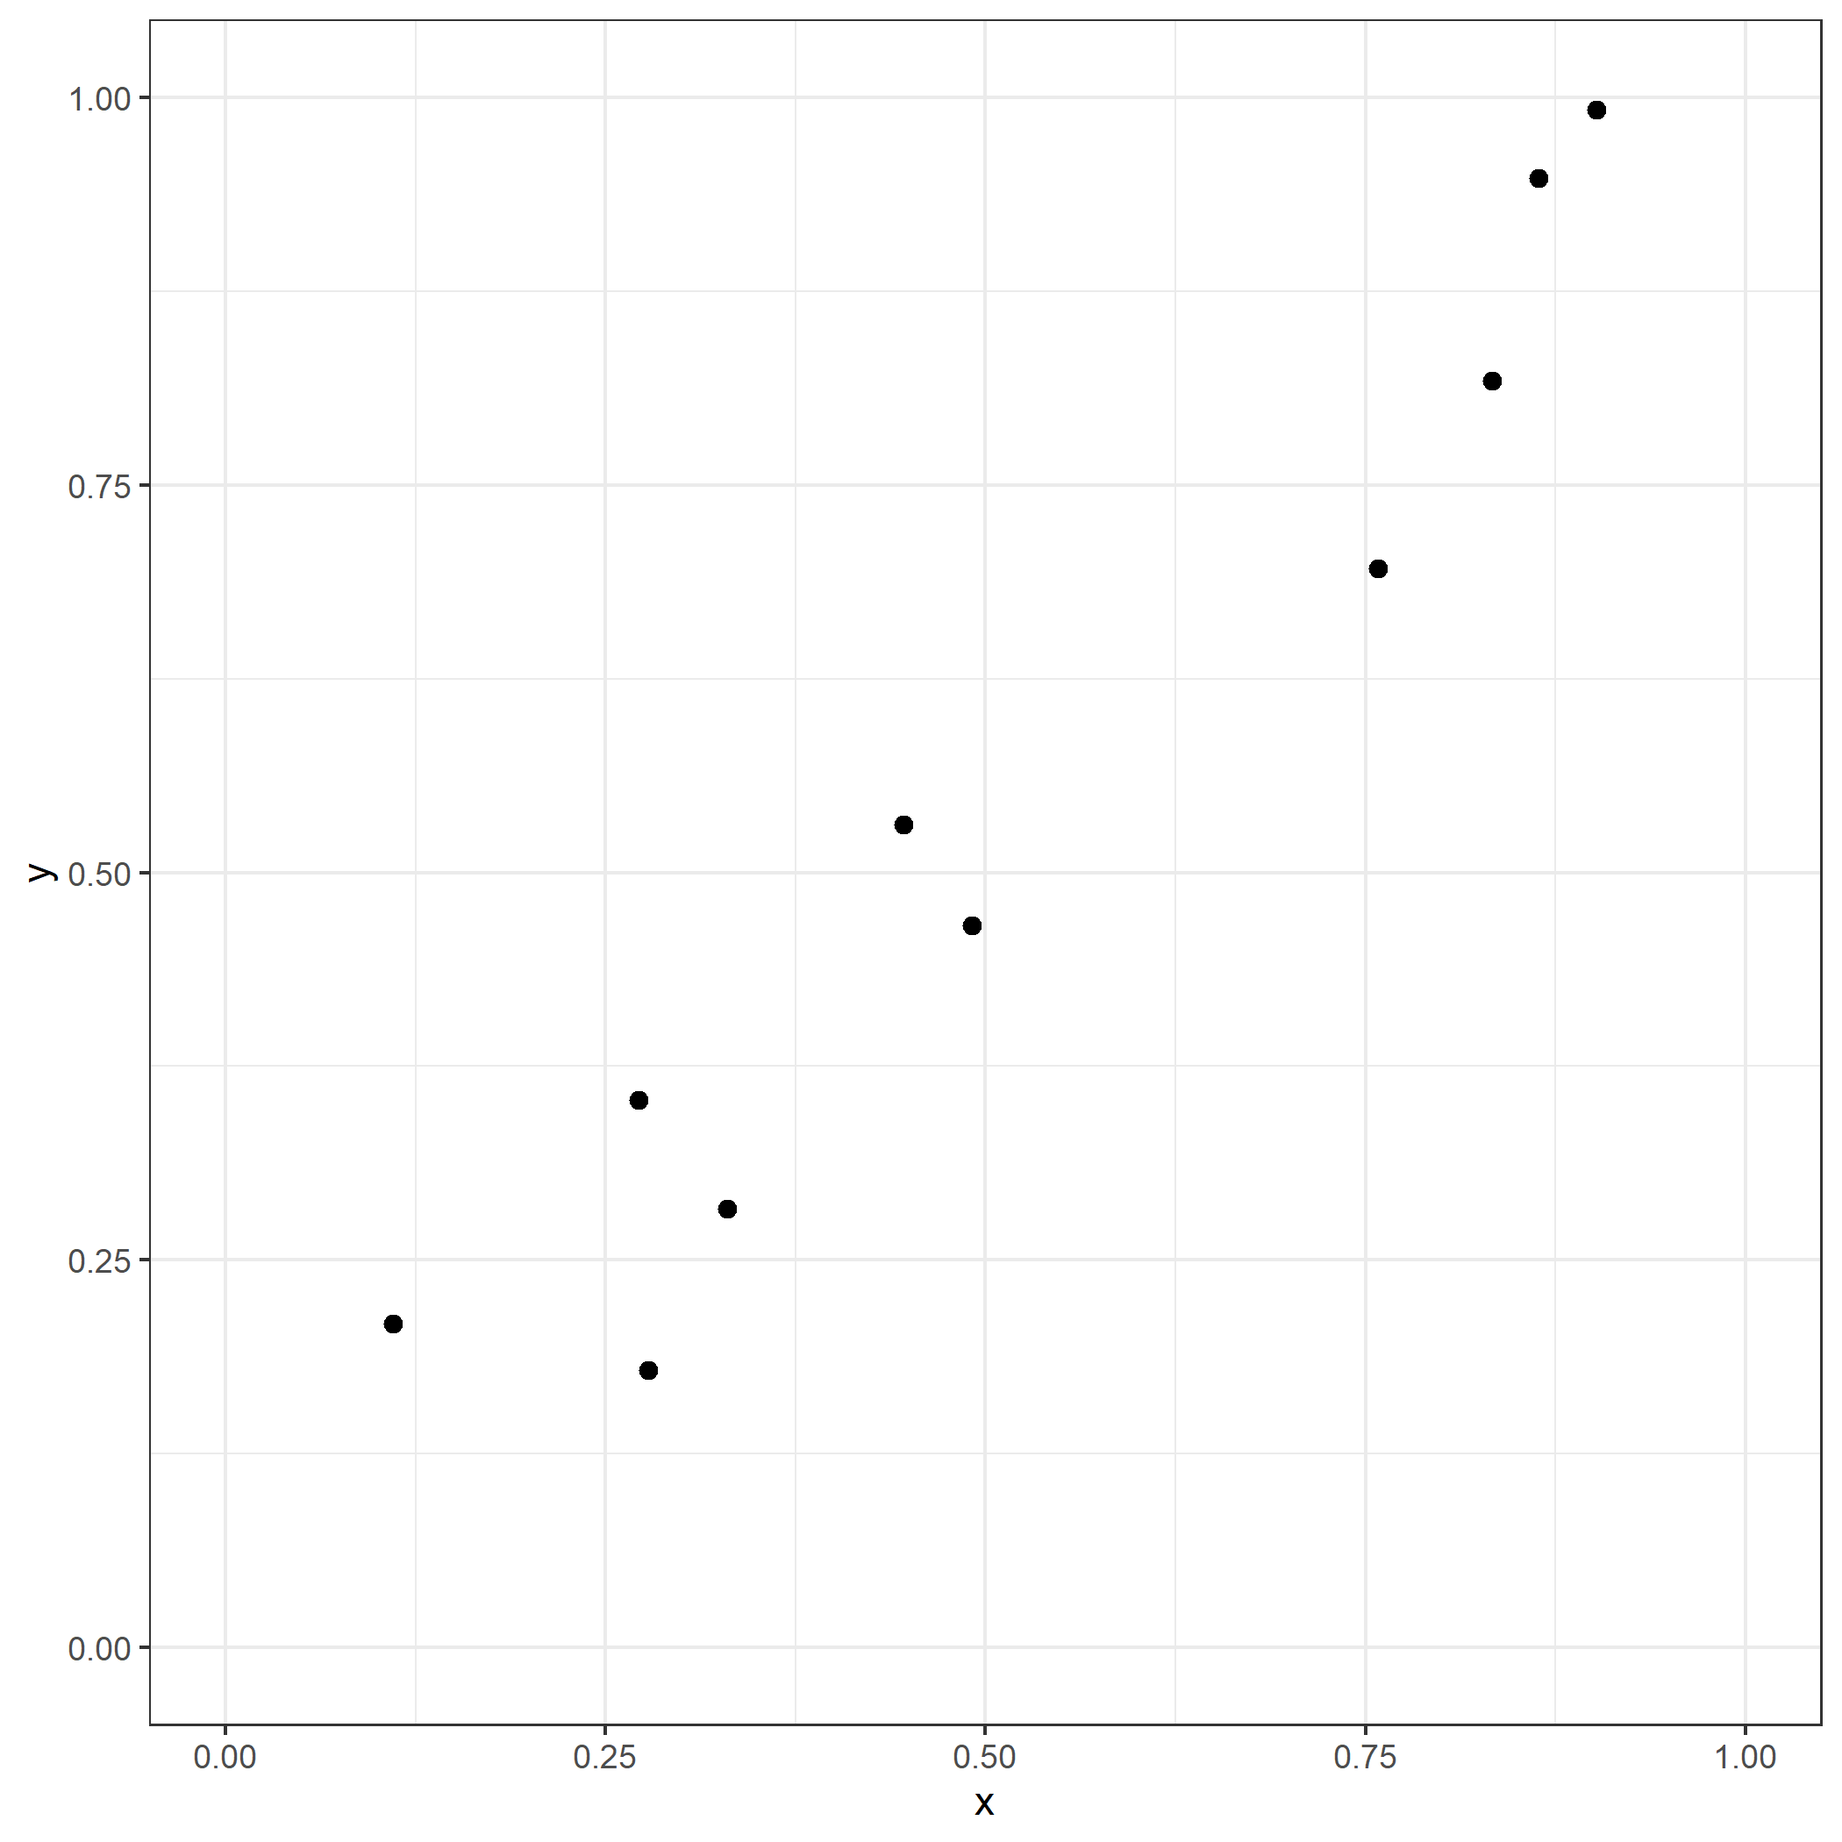
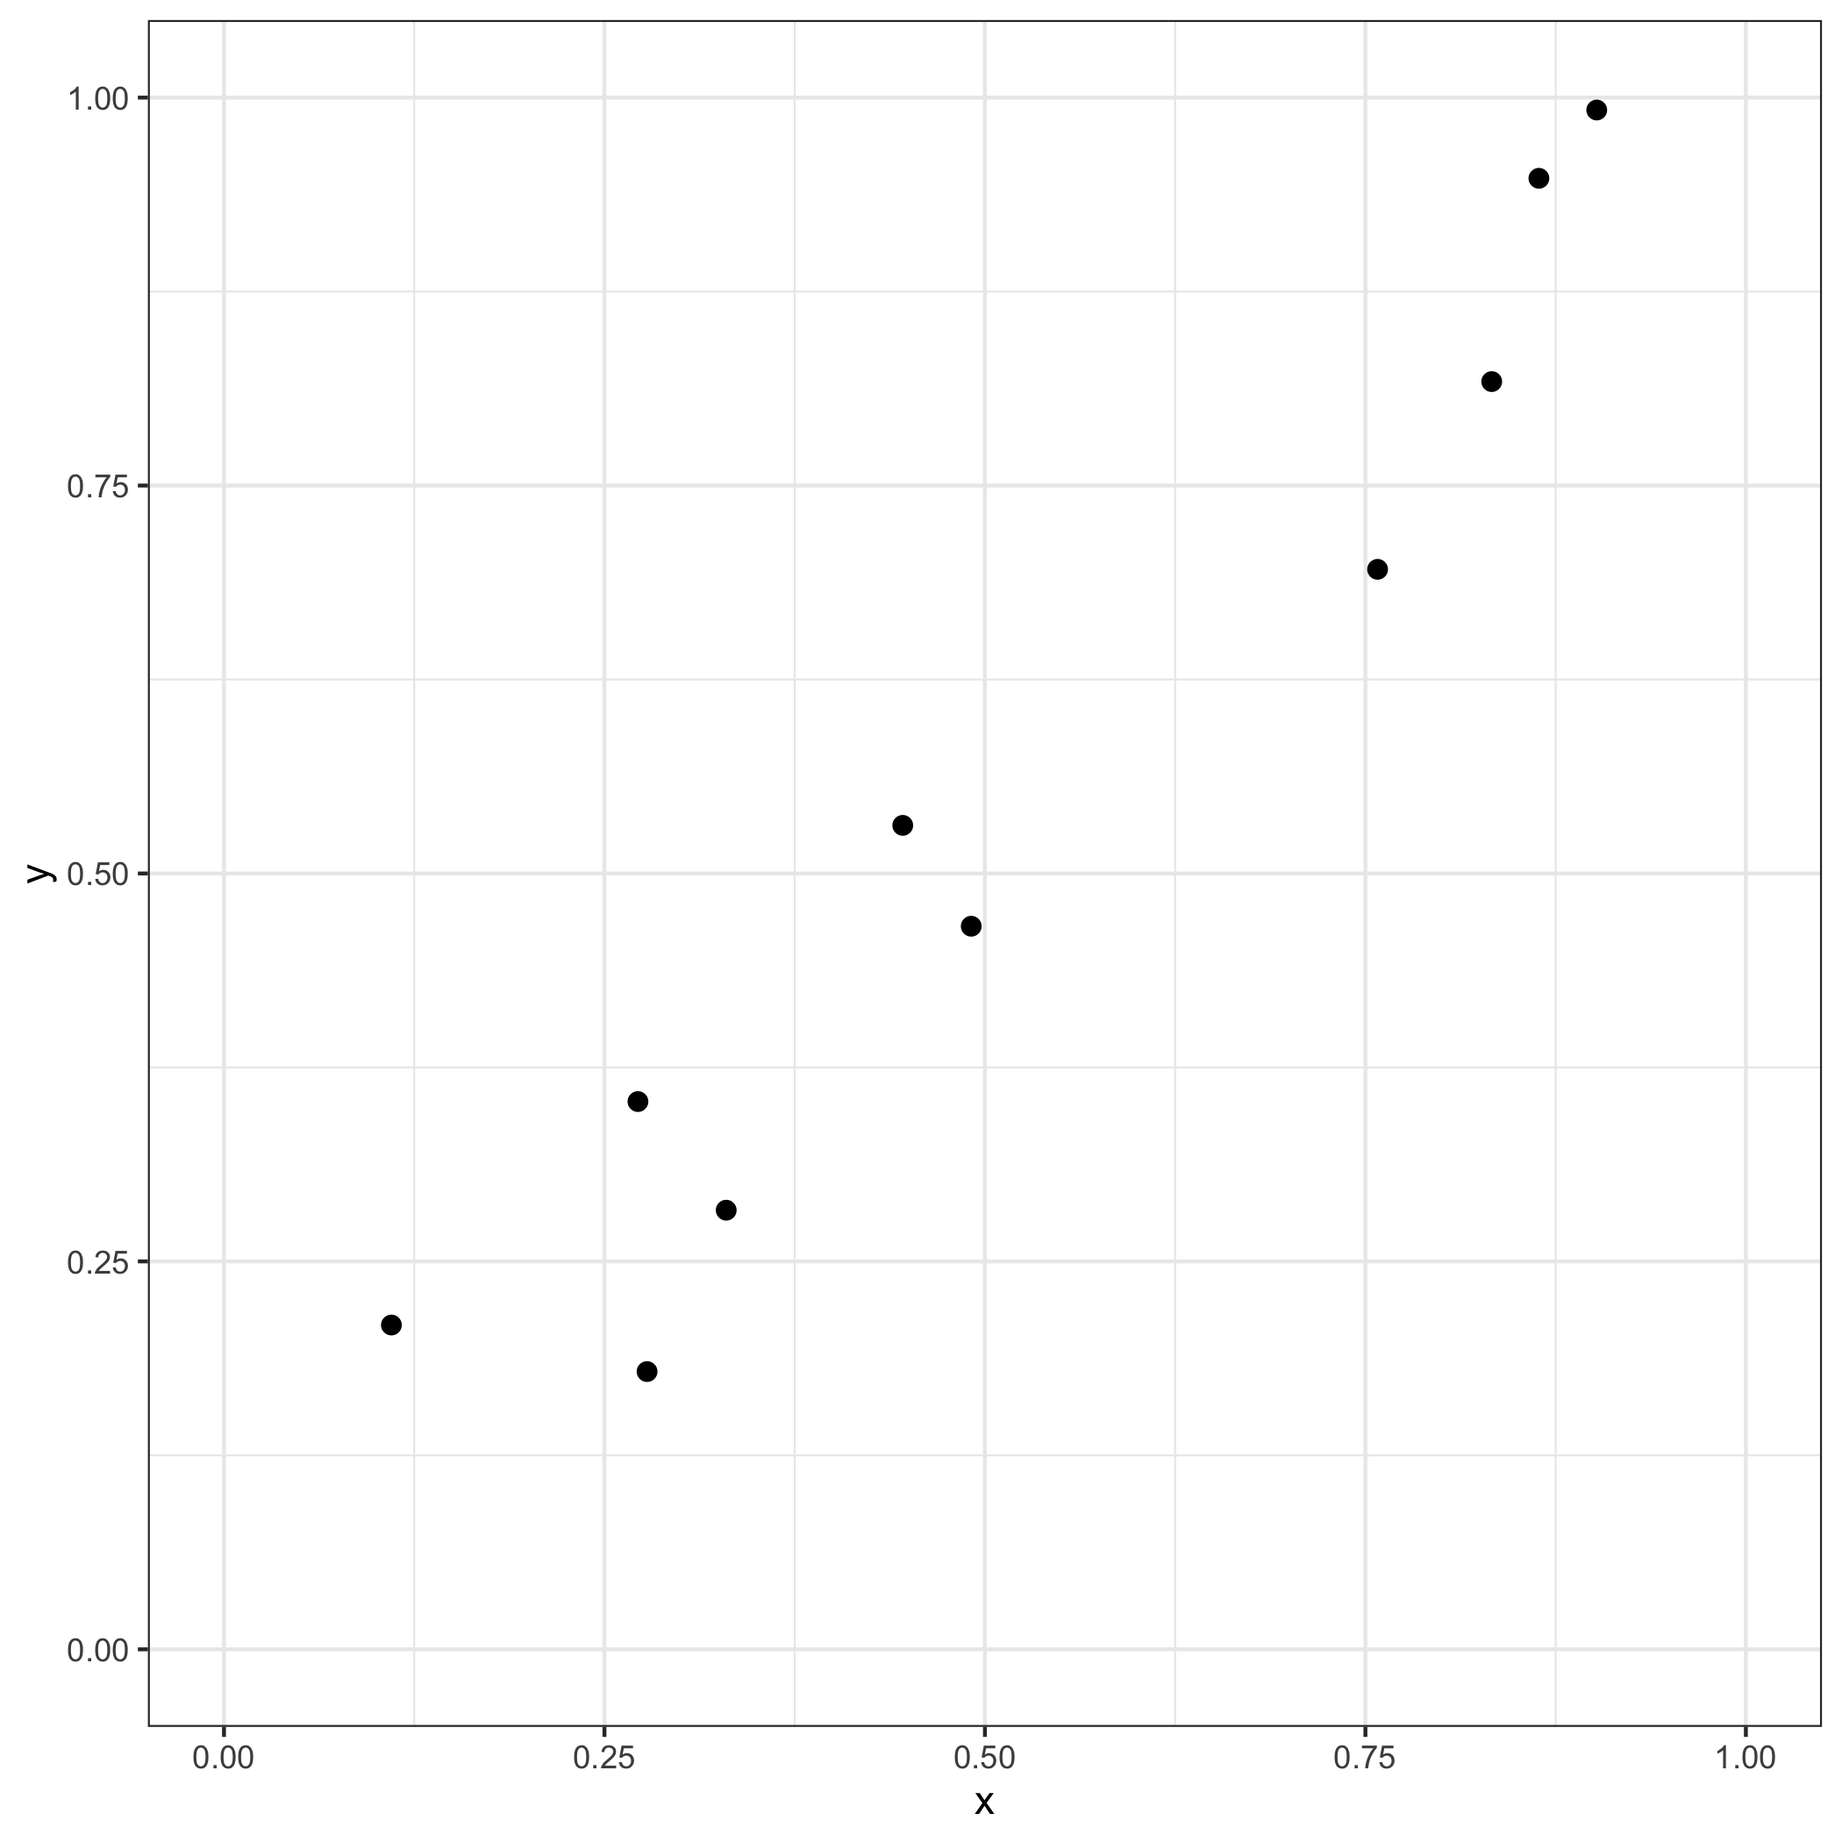
update L14 with fairness topic

diff --git a/slides/w07-L14/w07-L14.html b/slides/w07-L14/w07-L14.html
@@ -4,9 +4,9 @@
     <title>Ethics in Data Science - Algorithmic Bias</title>
     <meta charset="utf-8" />
     <meta name="author" content="University of Edinburgh" />
-    <script src="libs/header-attrs-2.29/header-attrs.js"></script>
-    <link href="libs/panelset-0.2.6/panelset.css" rel="stylesheet" />
-    <script src="libs/panelset-0.2.6/panelset.js"></script>
+    <script src="libs/header-attrs-2.30/header-attrs.js"></script>
+    <link href="libs/panelset-0.3.0/panelset.css" rel="stylesheet" />
+    <script src="libs/panelset-0.3.0/panelset.js"></script>
     <link rel="stylesheet" href="xaringan-themer.css" type="text/css" />
     <link rel="stylesheet" href="slides.css" type="text/css" />
   </head>
@@ -70,7 +70,7 @@ Reuters. 10 Oct 2018.
 
 ## Where is the bias?
 
-&lt;img src="img/modelling-process.PNG" width="60%" style="display: block; margin: auto;" /&gt;
+&lt;img src="img/modelling-process.PNG" alt="" width="60%" style="display: block; margin: auto;" /&gt;
 
 ---
 
@@ -93,7 +93,7 @@ Adapted from Suresh &amp; Guttag (2021). [A Framework for Understanding Sources 
 
 .pull-left[
 
-&lt;img src="w07-L14_files/figure-html/unnamed-chunk-2-1.png" width="1050" /&gt;
+&lt;img src="w07-L14_files/figure-html/unnamed-chunk-2-1.png" alt="" width="1050" /&gt;
 
 
 ]
@@ -118,11 +118,11 @@ Q1: Which model gives a better fit to the data?
 
 .pull-left[
 
-&lt;img src="w07-L14_files/figure-html/unnamed-chunk-3-1.png" width="1050" /&gt;
+&lt;img src="w07-L14_files/figure-html/unnamed-chunk-3-1.png" alt="" width="1050" /&gt;
 
 ]
 .pull-right[
-&lt;img src="w07-L14_files/figure-html/unnamed-chunk-4-1.png" width="1050" /&gt;
+&lt;img src="w07-L14_files/figure-html/unnamed-chunk-4-1.png" alt="" width="1050" /&gt;
 ]
 
 .question[
@@ -148,7 +148,7 @@ class: middle
 And it’s biased against blacks".
 ]
 
-&lt;img src="img/propublica-criminal-sentencing.png" width="60%" style="display: block; margin: auto;" /&gt;
+&lt;img src="img/propublica-criminal-sentencing.png" alt="" width="60%" style="display: block; margin: auto;" /&gt;
 
 .footnote[
 .midi[
@@ -193,11 +193,155 @@ Risk scores assigned to more than 7,000 people arrested in Broward County, Flori
 
 - 20% of those predicted to commit violent crimes actually did
 - Algorithm had higher accuracy (61%) when full range of crimes taken into account (e.g. misdemeanors)
-&lt;img src="img/propublica-results.png" width="85%" /&gt;
+&lt;img src="img/propublica-results.png" alt="" width="85%" /&gt;
 - Algorithm was more likely to falsely flag African American defendants as future criminals, at almost twice the rate as White defendants
 - White defendants were mislabeled as low risk more often than African American defendants
 
+---
 
+## The company's response
+
+Northpointe (the company behind COMPAS) disputed ProPublica's conclusion:
+
+* Their analysis showed the scores were **equally predictive** in both groups: among defendants labelled high risk, Black and White defendants went on to reoffend at similar rates.
+* In other words, a "high risk" label (or a given score) "meant the same thing" whatever your race. This property is often called **calibration** or **predictive parity**.
+
+.question[
+ProPublica: the algorithm is unfair, because the **error rates** differ between groups.
+Northpointe: the algorithm is fair, because the **scores are calibrated** in both groups.
+
+Can both be right?
+]
+
+--
+
+.midi[
+**Yes.** And when the groups have different base rates (different proportions who reoffend), it is mathematically impossible to satisfy both definitions at once (Kleinberg et al., 2016; Chouldechova, 2017).
+]
+
+---
+
+## Defining fairness: the setup
+
+A classification model predicts an outcome from some information about a person.
+
+* `\(X\)`: the information used to make the prediction (e.g. criminal history, age)
+* `\(A\)`: a **sensitive attribute** we don't want to discriminate on (e.g. ethnicity, gender)
+* `\(Y\)`: the true outcome (e.g. did the person reoffend: 1 = yes, 0 = no)
+* `\(R\)`: the model's prediction (e.g. 1 = flagged as high risk)
+
+.question[
+Each fairness criterion asks: **does knowing someone's group `\(A\)` change something it shouldn't?**
+]
+
+.footnote[
+Barocas, Hardt &amp; Narayanan, [_Fairness and Machine Learning_](https://fairmlbook.org/) (free online); [Wikipedia: Fairness (machine learning)](https://en.wikipedia.org/wiki/Fairness_%28machine_learning%29).
+]
+
+---
+
+## Three group fairness criteria
+
+**Independence** (demographic parity): `\(\quad P(R=1 \mid A=a) = P(R=1 \mid A=b)\)`
+* Each group is flagged as high risk at the **same rate**.
+
+**Separation** (equalised odds): `\(\quad P(R=1 \mid Y=y, A=a) = P(R=1 \mid Y=y, A=b)\)`
+* Among people who **did** (or **did not**) reoffend, each group has the same chance of being flagged.
+* Equivalently: equal **false positive** and **false negative** rates. _ProPublica's criterion._
+
+**Sufficiency** (calibration): `\(\quad P(Y=1 \mid R=r, A=a) = P(Y=1 \mid R=r, A=b)\)`
+* Among people given the **same prediction**, the same share reoffend: a score means the same thing in every group. _Northpointe's criterion._
+
+???
+
+Read the conditions as "knowing which group you're in shouldn't change...":
+- Independence: ...your chance of being flagged.
+- Separation: ...your chance of being flagged, once we know what actually happened to you.
+- Sufficiency: ...what your score means about what will happen to you.
+Independence ignores the true outcome entirely, which is why it is often criticised: if groups genuinely differ in Y, forcing equal flag rates means making more errors in one group.
+
+---
+
+## You can't have them all
+
+.midi[
+* If the groups have **different base rates** (different proportions who actually reoffend), then, apart from trivial cases such as a perfect predictor:
+  - **Independence** and **separation** cannot both hold.
+  - **Separation** and **sufficiency** cannot both hold.
+  - So it is impossible to satisfy all three at once.
+* This is exactly the COMPAS dispute: the scores were roughly **calibrated** (sufficiency, Northpointe was right), _and therefore_ the error rates differed between groups (separation fails, ProPublica was right).
+]
+
+.question[
+.midi[
+**Which criterion should we choose?** It depends on the context and on who bears the cost of each type of mistake.
+* A defendant wrongly flagged as high risk may be kept in prison: what matters to them is the **false positive rate** (separation).
+* A judge wants a "high risk" label to mean the same thing for everyone (sufficiency).
+* Statistics can tell you what the trade-off is, but not which side of it to pick.
+]
+]
+
+.midi[
+Kleinberg, Mullainathan &amp; Raghavan (2016); Chouldechova (2017).
+]
+
+---
+
+## Fairness definitions can conflict: a simulation
+
+
+
+.midi[
+* Each person has a true risk; the score **is** that true risk, so it is perfectly calibrated in both groups.
+* In both groups, high-risk people have a risk score around 0.6 and low-risk people around 0.2. Group A simply has more high-risk people. The score is each person's true risk.
+* Everyone is flagged using the same threshold (score &gt; 0.5).
+]
+
+.midi[
+&lt;table&gt;
+ &lt;thead&gt;
+  &lt;tr&gt;
+   &lt;th style="text-align:left;"&gt; group &lt;/th&gt;
+   &lt;th style="text-align:center;"&gt; Base rate &lt;/th&gt;
+   &lt;th style="text-align:center;"&gt; Flagged as high risk &lt;/th&gt;
+   &lt;th style="text-align:center;"&gt; Flagged who reoffend &lt;/th&gt;
+   &lt;th style="text-align:center;"&gt; Not flagged who reoffend &lt;/th&gt;
+   &lt;th style="text-align:center;"&gt; False positive rate &lt;/th&gt;
+   &lt;th style="text-align:left;"&gt; False negative rate &lt;/th&gt;
+  &lt;/tr&gt;
+ &lt;/thead&gt;
+&lt;tbody&gt;
+  &lt;tr&gt;
+   &lt;td style="text-align:left;"&gt; Group A &lt;/td&gt;
+   &lt;td style="text-align:center;"&gt; 44% &lt;/td&gt;
+   &lt;td style="text-align:center;"&gt; 60% &lt;/td&gt;
+   &lt;td style="text-align:center;"&gt; 60% &lt;/td&gt;
+   &lt;td style="text-align:center;"&gt; 20% &lt;/td&gt;
+   &lt;td style="text-align:center;"&gt; 43% &lt;/td&gt;
+   &lt;td style="text-align:left;"&gt; 18% &lt;/td&gt;
+  &lt;/tr&gt;
+  &lt;tr&gt;
+   &lt;td style="text-align:left;"&gt; Group B &lt;/td&gt;
+   &lt;td style="text-align:center;"&gt; 28% &lt;/td&gt;
+   &lt;td style="text-align:center;"&gt; 20% &lt;/td&gt;
+   &lt;td style="text-align:center;"&gt; 60% &lt;/td&gt;
+   &lt;td style="text-align:center;"&gt; 20% &lt;/td&gt;
+   &lt;td style="text-align:center;"&gt; 11% &lt;/td&gt;
+   &lt;td style="text-align:left;"&gt; 57% &lt;/td&gt;
+  &lt;/tr&gt;
+&lt;/tbody&gt;
+&lt;/table&gt;
+]
+
+.midi[
+* Even a perfectly calibrated score, with one threshold for everyone, gives **different false positive and false negative rates** across groups.
+* Choosing which fairness definition matters is **not a purely technical decision**. It depends on context, values, and who bears the cost of each type of error.
+]
+
+???
+
+Run this live and change the threshold or base rates to show students that the gap in error rates doesn't go away.
+References: Kleinberg, Mullainathan &amp; Raghavan (2016), "Inherent Trade-Offs in the Fair Determination of Risk Scores"; Chouldechova (2017), "Fair prediction with disparate impact", Big Data 5(2).
 
 ---
 
@@ -241,14 +385,8 @@ But:
 * They generate _plausible_ text. Plausible is not the same as **true**.
 * They can **hallucinate**: produce confident, fluent and specific content (facts, numbers, references) that is fabricated.
 * They tend to **agree with you**, and can be steered by how a question is phrased.
-* They reflect the **biases** in their training data.
+* They reflect the **biases** in their training data (e.g. stereotypes in image generation).
 * Even with search, they can misquote or misattribute sources.
-
-???
-
-Suggestion: a short live demo instead of screenshots.
-E.g. ask an LLM for "five peer-reviewed references on &lt;niche topic&gt; with DOIs", then check them in front of the class.
-Or ask it to analyse a small dataset, and compare its answer with the output of the R code.
 
 ---
 
@@ -289,10 +427,6 @@ Or ask it to analyse a small dataset, and compare its answer with the output of 
 * **Synthetic media**: realistic fake images, audio and video (deepfakes) used for fraud, harassment and disinformation.
 * **Concentration of power**: only a few organisations can afford to build the largest models.
 
-.question[
-Pick one of these. Who benefits, who bears the cost, and who gets to decide?
-]
-
 ---
 
 ## Parting thoughts
@@ -318,7 +452,7 @@ How do you train yourself to make the right decisions (or reduce the likelihood 
 
 .pull-left[
 
-&lt;img src="img/propublica-machine-bias.png" width="80%" style="display: block; margin: auto;" /&gt;
+&lt;img src="img/propublica-machine-bias.png" alt="" width="80%" style="display: block; margin: auto;" /&gt;
 ]
 .pull-right[
 [Machine Bias](https://www.propublica.org/article/machine-bias-risk-assessments-in-criminal-sentencing)
@@ -332,7 +466,7 @@ by Julia Angwin, Jeff Larson, Surya Mattu, and Lauren Kirchner
 .panel[.panel-name[Ethics &amp; DS]
 
 .pull-left[
-&lt;img src="img/ethics-data-science.jpg" width="50%" style="display: block; margin: auto;" /&gt;
+&lt;img src="img/ethics-data-science.jpg" alt="" width="50%" style="display: block; margin: auto;" /&gt;
 ]
 .pull-right[
 [Ethics and Data Science](https://www.amazon.com/Ethics-Data-Science-Mike-Loukides-ebook/dp/B07GTC8ZN7)
@@ -346,7 +480,7 @@ by Mike Loukides, Hilary Mason, DJ Patil
 .panel[.panel-name[Math Destruction]
 
 .pull-left[
-&lt;img src="img/weapons-of-math-destruction.jpg" width="50%" style="display: block; margin: auto;" /&gt;
+&lt;img src="img/weapons-of-math-destruction.jpg" alt="" width="50%" style="display: block; margin: auto;" /&gt;
 ]
 .pull-right[
 [Weapons of Math Destruction](https://www.penguin.co.uk/books/304/304513/weapons-of-math-destruction/9780141985411.html)
@@ -359,7 +493,7 @@ by Cathy O'Neil
 .panel[.panel-name[Alg.s of Oppression]
 
 .pull-left[
-&lt;img src="img/algorithms-of-oppression.jpg" width="50%" style="display: block; margin: auto;" /&gt;
+&lt;img src="img/algorithms-of-oppression.jpg" alt="" width="50%" style="display: block; margin: auto;" /&gt;
 ]
 .pull-right[
 [Algorithms of Oppression](https://nyupress.org/9781479837243/algorithms-of-oppression/)
@@ -372,13 +506,26 @@ by Safiya Umoja Noble
 ]
 
 
+.panel[.panel-name[Data Feminism]
+
+.pull-left[
+&lt;img src="img/Data_Feminism.jpg" alt="" width="50%" style="display: block; margin: auto;" /&gt;
+]
+.pull-right[
+[Data Feminism](https://data-feminism.mitpress.mit.edu/)
+by Catherine D'Ignazio and Lauren F. Klein (MIT Press, 2020)
+Free to read online.
+]
+
+]
+
 
 .panel[.panel-name[AI]
 
 
 .pull-left[
 
-&lt;img src="img/alan-turing-institute.PNG" width="60%" style="display: block; margin: auto;" /&gt;
+&lt;img src="img/alan-turing-institute.PNG" alt="" width="60%" style="display: block; margin: auto;" /&gt;
 ]
 .pull-right[
 The Alan Turing Institute
@@ -393,14 +540,20 @@ by David Leslie
 
 ]
 
+---
+
+.footnote[
+These slides were updated with the help of an AI assistant (Claude, Opus 5.5), used for suggesting content, drafting slides and R code. All facts, sources and code were checked by the lecturer.
+]
+
     </textarea>
 <style data-target="print-only">@media screen {.remark-slide-container{display:block;}.remark-slide-scaler{box-shadow:none;}}</style>
 <script src="https://remarkjs.com/downloads/remark-latest.min.js"></script>
 <script>var slideshow = remark.create({
-"ratio": "16:9",
-"highlightLines": true,
-"highlightStyle": "solarized-light",
-"countIncrementalSlides": false
+  "ratio": "16:9",
+  "highlightLines": true,
+  "highlightStyle": "solarized-light",
+  "countIncrementalSlides": false
 });
 if (window.HTMLWidgets) slideshow.on('afterShowSlide', function (slide) {
   window.dispatchEvent(new Event('resize'));
